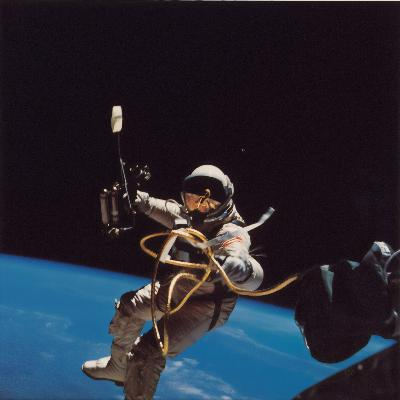
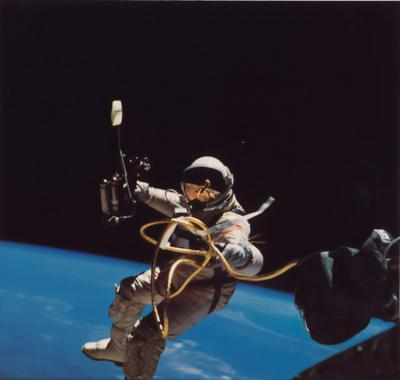
Start working on a jpg converter script WIP

diff --git a/image-playground/JPGtoPNGconverter.py b/image-playground/JPGtoPNGconverter.py
@@ -1,0 +1,15 @@
+import sys
+import os
+from PIL import Image
+
+# grab first and second argument
+path = sys.argv[1]
+directory = sys.argv[2]
+
+print(os.path.exists(directory))
+# check if new/ exists, if not create
+if not os.path.exists(directory):
+    os.makedirs(directory)
+# loop through Pokedex
+#  convert images to png
+# save to the new folder

diff --git a/image-playground/images.py b/image-playground/images.py
@@ -2,5 +2,5 @@ from PIL import Image, ImageFilter
 
 
 img = Image.open('./astro.jpg')
-new_img = img.resize((400, 400))
-new_img.save('thumbnail.jpg')
+img.thumbnail((400, 400))
+img.save('thumbnail.jpg')
